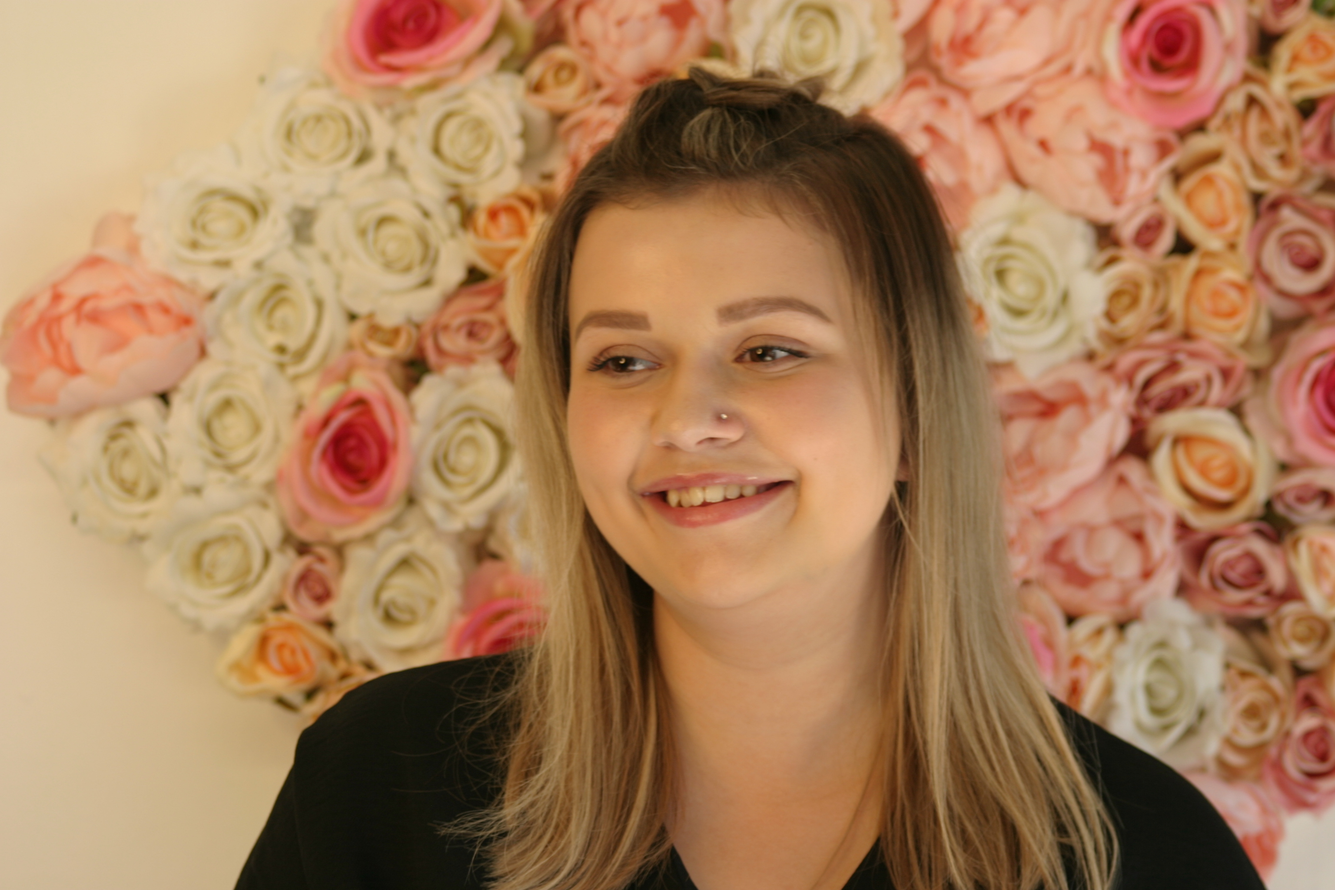
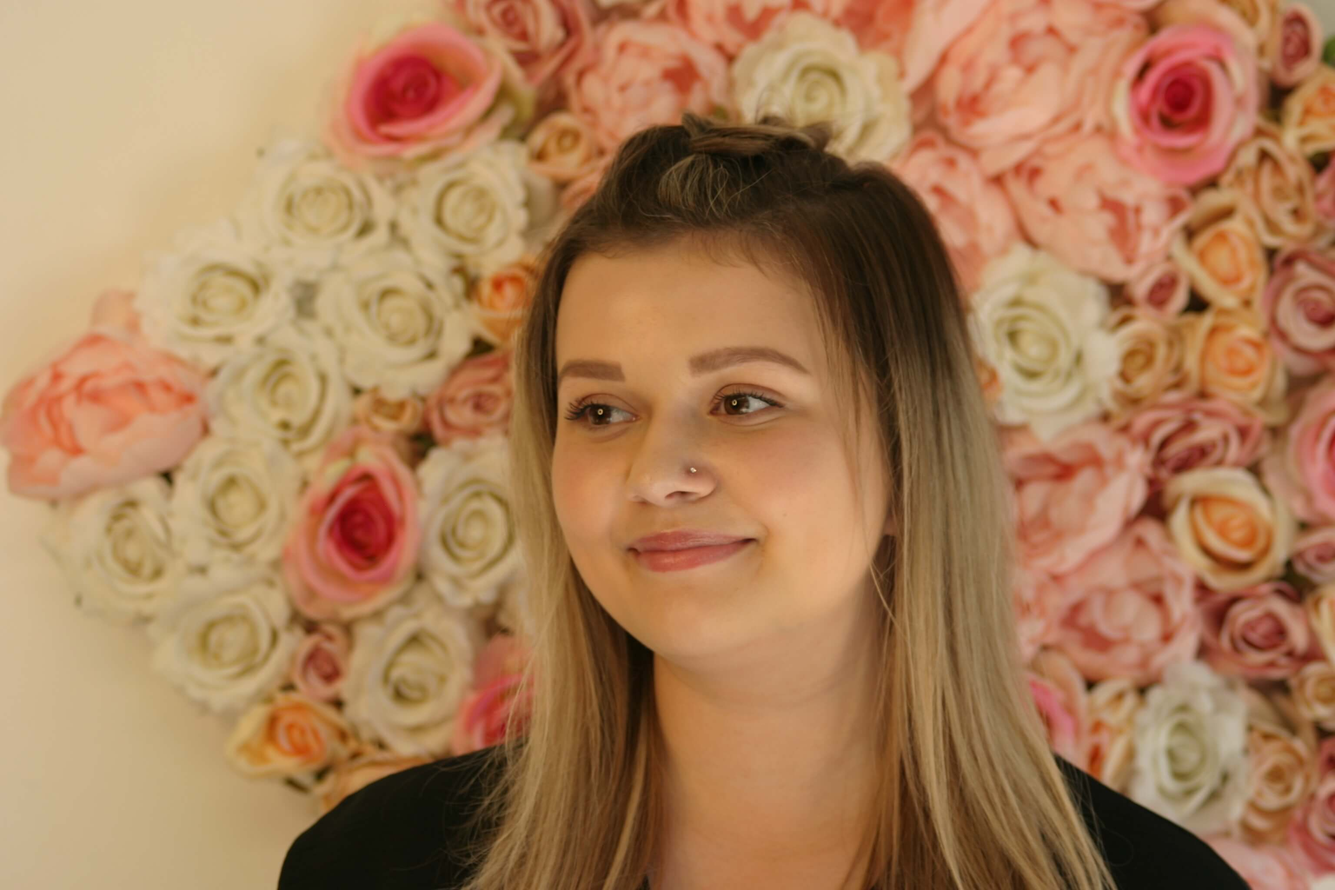
images downsized to ensure faster downloading time

diff --git a/index.html b/index.html
@@ -61,7 +61,7 @@
         <div class="col-12">
           <div class="section-wrap">
             <div class="section header-section section-bg-image">
-              <img id="header-banner" src="./image/team2.jpg " class="img-fluid contact" alt="Responsive image " />
+              <img id="header-banner" src="./image/banner1.jpg " class="img-fluid contact" alt="Responsive image " />
             </div>
           </div>
         </div>
@@ -114,7 +114,7 @@
       <div class="col-sm-12 col-md-4  shadow p-3 mb-5 bg-white rounded">
         <!--feature article 1-->
         <div class="card" id="prices">
-          <img src="image/background.jpg" class="card-img-top" alt="owner of elegance image" />
+          <img src="./image/Ciaranne.jpg" class="card-img-top" alt="owner of elegance image" />
           <div class="card-body2 ">
             <h5 class="card-title2 ">Carianne</h5>
             <p class="card-text2"><em>Director</em></p>
@@ -136,7 +136,7 @@
       </div>
       <div class="col-sm-12 col-md-4  shadow p-3 mb-5 bg-white rounded">
         <div class="card">
-          <img src="image/vic.JPG" class="card-img-top " alt="victoria staff member image" />
+          <img src="image/victoria.jpg" class="card-img-top " alt="victoria staff member image" />
           <div class="card-body2">
             <h5 class="card-title2 ">Victoria</h5>
             <p class="card-text2"><em>Stylist</em></p>
